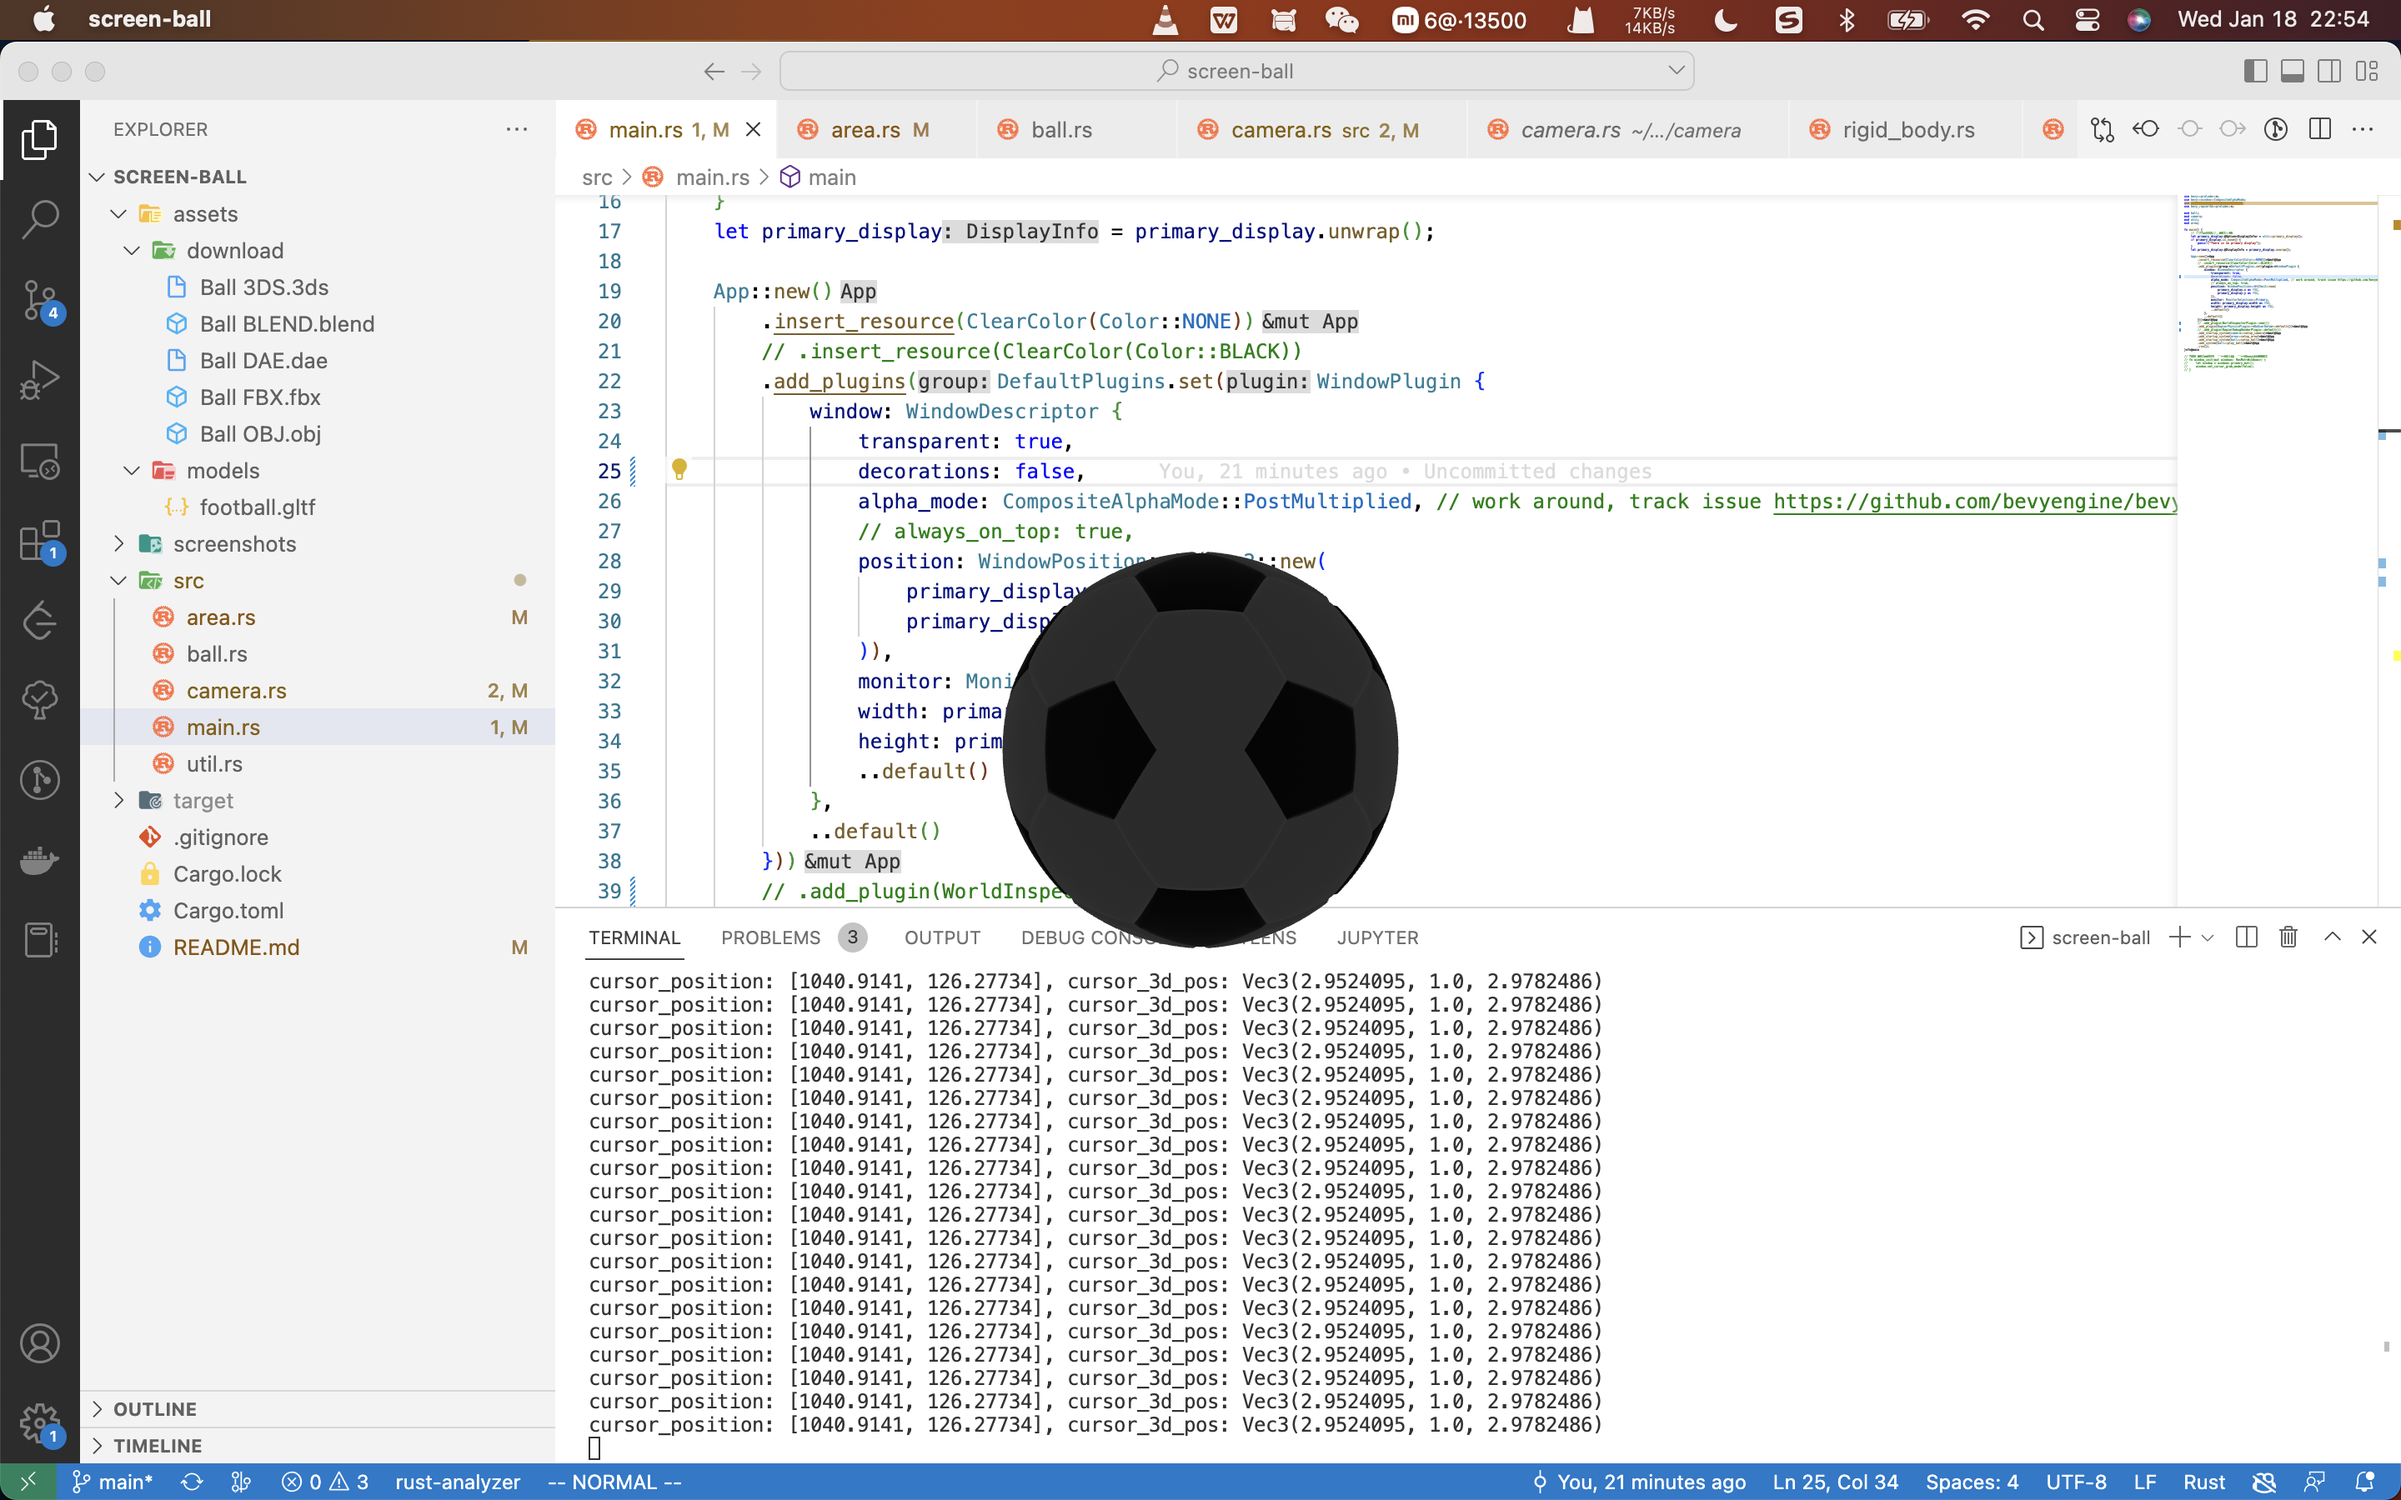
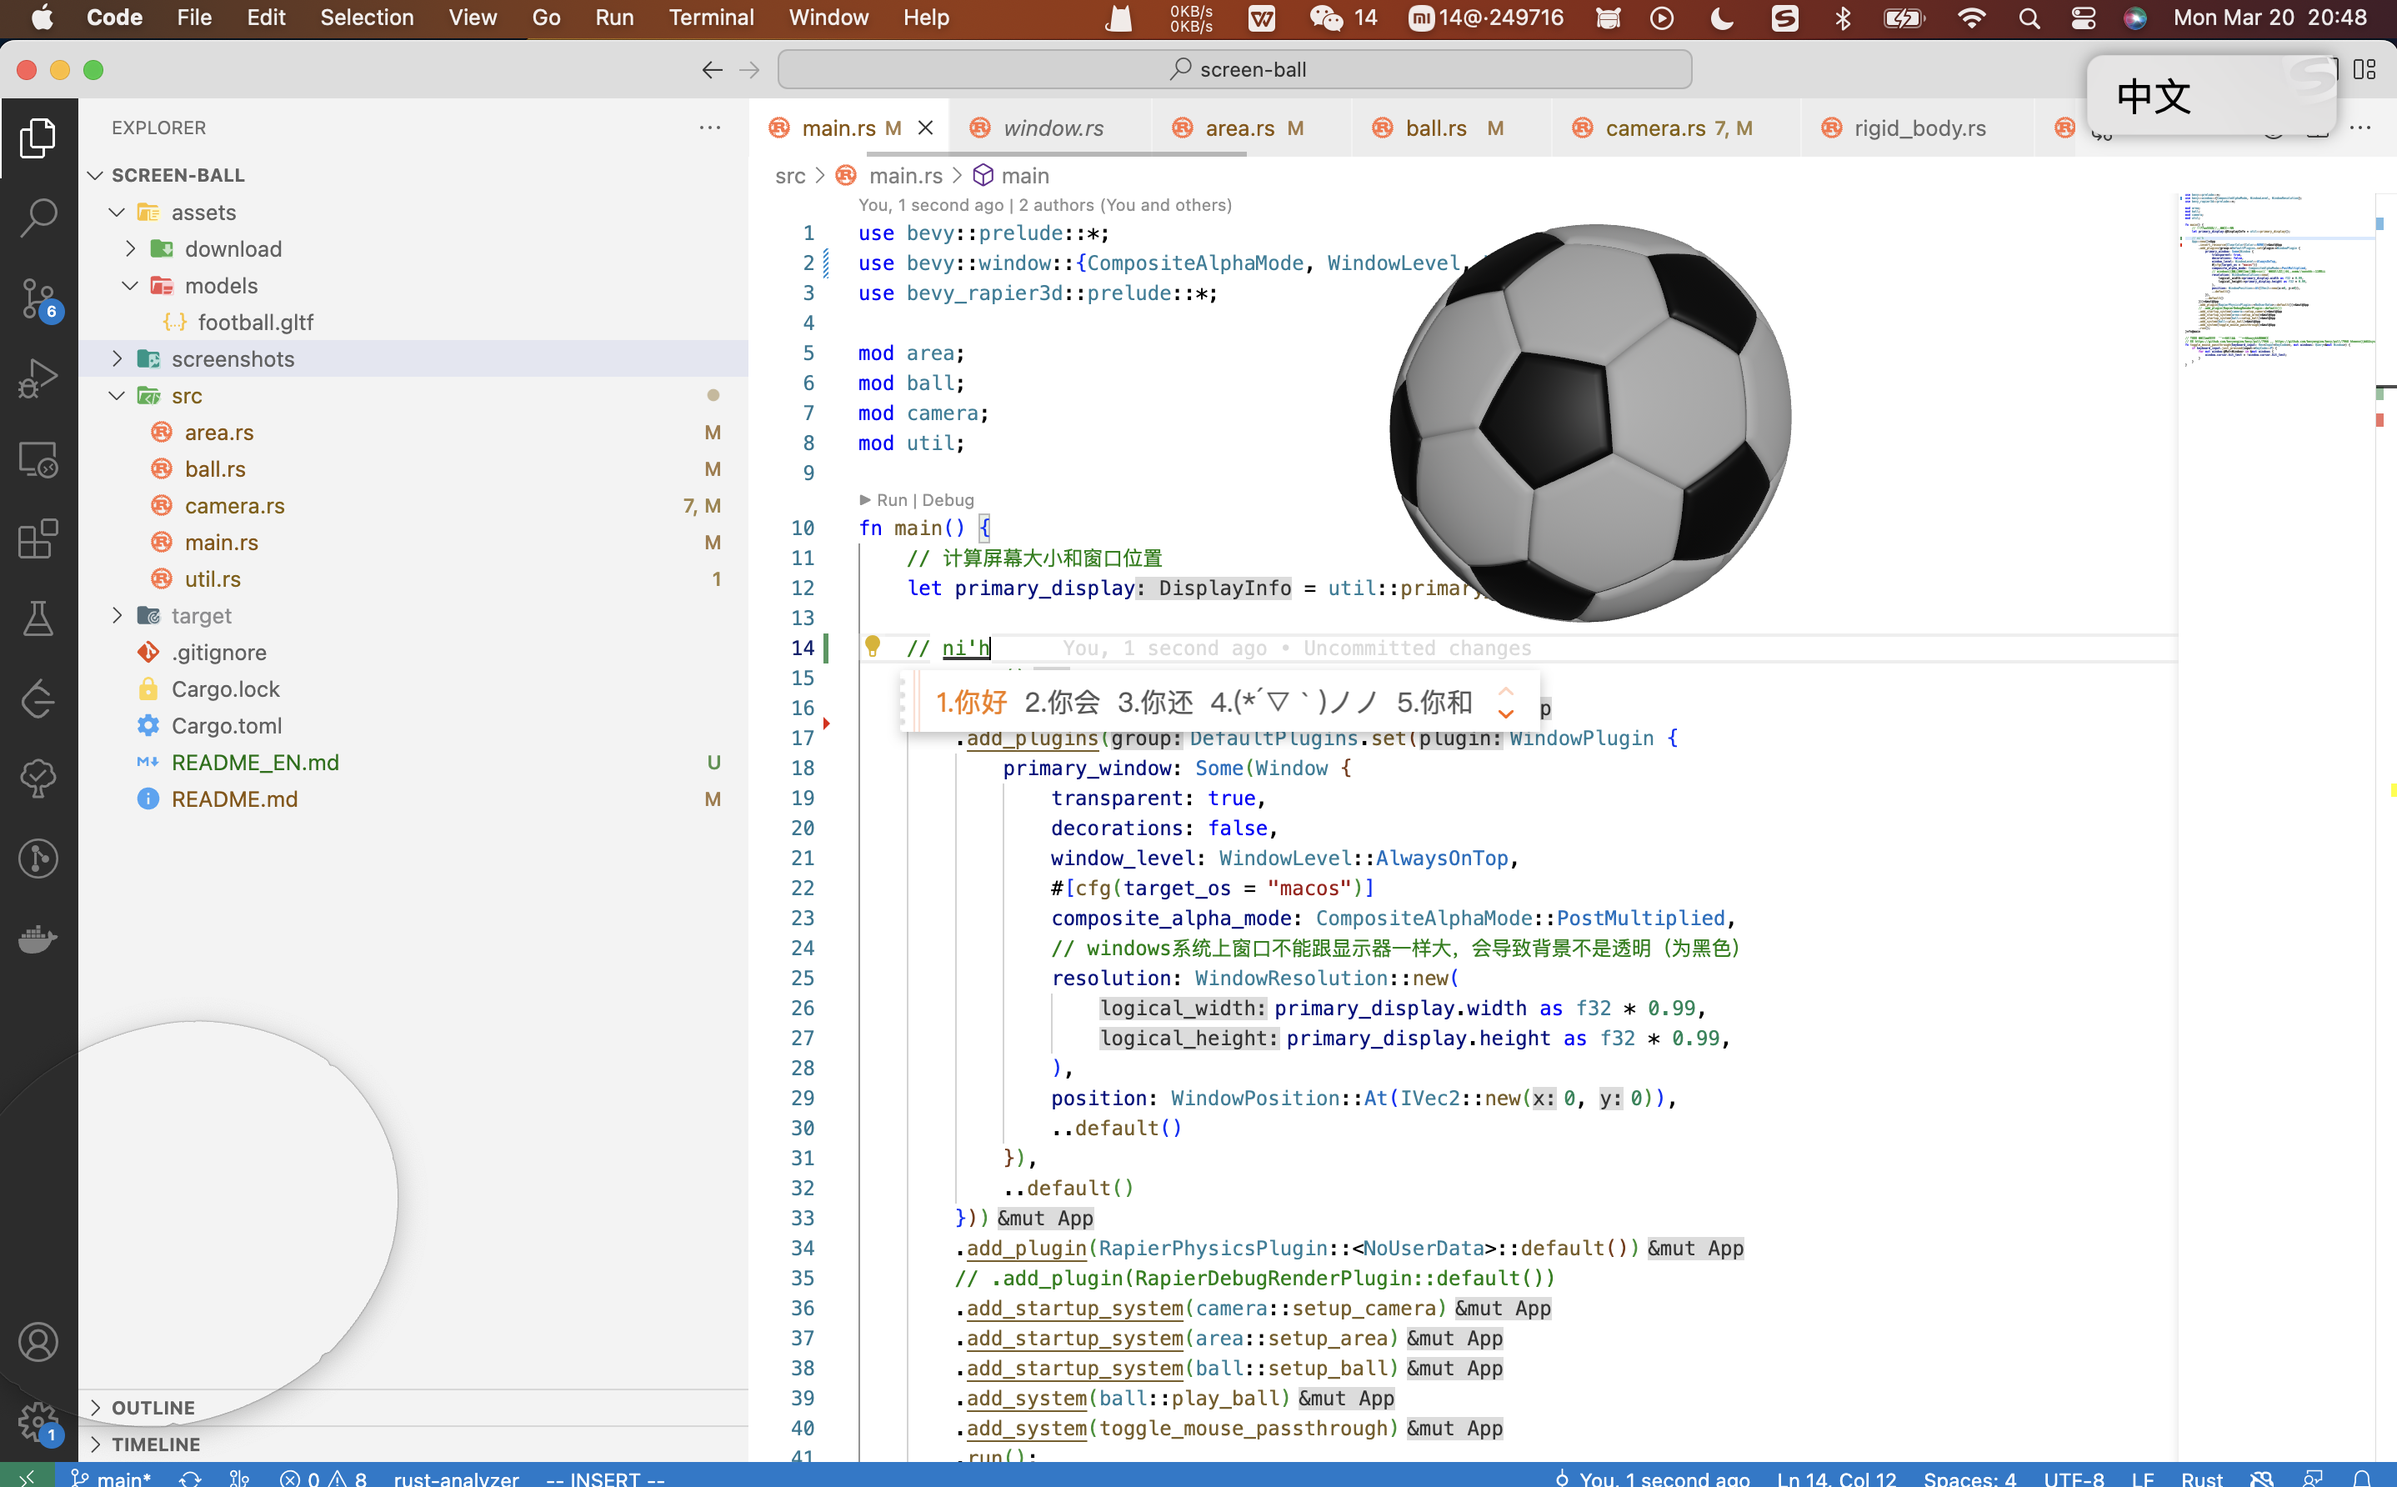
Comment out multi-windows code and update README

diff --git a/src/camera.rs b/src/camera.rs
@@ -29,60 +29,60 @@ pub fn setup_camera(mut commands: Commands) {
 
     let primary_display = util::primary_display();
 
-    // TODO 根据display信息创建新窗口
-    let non_primary_displays = util::non_primary_displays();
-    for display in non_primary_displays {
-        let window_entity = commands
-            .spawn(Window {
-                transparent: true,
-                decorations: false,
-                window_level: WindowLevel::AlwaysOnTop,
-                #[cfg(target_os = "macos")]
-                composite_alpha_mode: CompositeAlphaMode::PostMultiplied,
-                resolution: WindowResolution::new(
-                    display.width as f32 * 0.99,
-                    display.height as f32 * 0.99,
-                ),
-                ..default()
-            })
-            .id();
+    // TODO 多窗口支持：根据display信息创建新窗口
+    // let non_primary_displays = util::non_primary_displays();
+    // for display in non_primary_displays {
+    //     let window_entity = commands
+    //         .spawn(Window {
+    //             transparent: true,
+    //             decorations: false,
+    //             window_level: WindowLevel::AlwaysOnTop,
+    //             #[cfg(target_os = "macos")]
+    //             composite_alpha_mode: CompositeAlphaMode::PostMultiplied,
+    //             resolution: WindowResolution::new(
+    //                 display.width as f32 * 0.99,
+    //                 display.height as f32 * 0.99,
+    //             ),
+    //             ..default()
+    //         })
+    //         .id();
 
-        // 主相机相对于窗口原点坐标
-        let primary_camera_based_on_window_origin = Vec2::new(
-            primary_display.width as f32 / 2.0,
-            primary_display.height as f32 / 2.0,
-        );
-        dbg!(primary_camera_based_on_window_origin);
-        // 当前相机相对于窗口原点坐标
-        let current_camera_based_on_window_origin =
-            Vec2::new(display.width as f32 / 2.0, display.height as f32 / 2.0)
-                + Vec2::new(display.x as f32, display.y as f32);
-        dbg!(current_camera_based_on_window_origin);
-        // 当前相机相对于世界原点（即主相机位置）坐标
-        let current_camera_based_on_world_origin =
-            current_camera_based_on_window_origin - primary_camera_based_on_window_origin;
-        dbg!(current_camera_based_on_world_origin);
+    //     // 主相机相对于窗口原点坐标
+    //     let primary_camera_based_on_window_origin = Vec2::new(
+    //         primary_display.width as f32 / 2.0,
+    //         primary_display.height as f32 / 2.0,
+    //     );
+    //     dbg!(primary_camera_based_on_window_origin);
+    //     // 当前相机相对于窗口原点坐标
+    //     let current_camera_based_on_window_origin =
+    //         Vec2::new(display.width as f32 / 2.0, display.height as f32 / 2.0)
+    //             + Vec2::new(display.x as f32, display.y as f32);
+    //     dbg!(current_camera_based_on_window_origin);
+    //     // 当前相机相对于世界原点（即主相机位置）坐标
+    //     let current_camera_based_on_world_origin =
+    //         current_camera_based_on_window_origin - primary_camera_based_on_window_origin;
+    //     dbg!(current_camera_based_on_world_origin);
 
-        // TODO 窗口坐标单位不等同于世界坐标单位
-        commands.spawn(Camera3dBundle {
-            transform: Transform::from_xyz(
-                current_camera_based_on_world_origin.x,
-                camera::CAMERA_HEIGHT_SIZE,
-                current_camera_based_on_world_origin.y,
-            )
-            .looking_at(
-                Vec3::new(
-                    current_camera_based_on_world_origin.x,
-                    0.0,
-                    current_camera_based_on_world_origin.y,
-                ),
-                Vec3::NEG_Z,
-            ),
-            camera: Camera {
-                target: RenderTarget::Window(WindowRef::Entity(window_entity)),
-                ..default()
-            },
-            ..default()
-        });
-    }
+    //     // TODO 窗口坐标单位不等同于世界坐标单位
+    //     commands.spawn(Camera3dBundle {
+    //         transform: Transform::from_xyz(
+    //             current_camera_based_on_world_origin.x,
+    //             camera::CAMERA_HEIGHT_SIZE,
+    //             current_camera_based_on_world_origin.y,
+    //         )
+    //         .looking_at(
+    //             Vec3::new(
+    //                 current_camera_based_on_world_origin.x,
+    //                 0.0,
+    //                 current_camera_based_on_world_origin.y,
+    //             ),
+    //             Vec3::NEG_Z,
+    //         ),
+    //         camera: Camera {
+    //             target: RenderTarget::Window(WindowRef::Entity(window_entity)),
+    //             ..default()
+    //         },
+    //         ..default()
+    //     });
+    // }
 }

diff --git a/src/ball.rs b/src/ball.rs
@@ -49,13 +49,13 @@ pub fn play_ball(
             let z = (window.height() / 2.0 - cursor_position.y) * factor;
             // 鼠标映射到3d世界的坐标（类比脚踢球）
             let cursor_3d_pos = Vec3::new(x, BALL_RADIUS, z);
-            println!(
-                "cursor_position: {}, cursor_3d_pos: {:?}",
-                cursor_position, cursor_3d_pos,
-            );
+            // println!(
+            //     "cursor_position: {}, cursor_3d_pos: {:?}",
+            //     cursor_position, cursor_3d_pos,
+            // );
             for (mut external_impulse, ball_transform) in &mut q_ball {
                 if cursor_3d_pos.distance(ball_transform.translation) <= BALL_RADIUS {
-                    println!("cursor hitted ball");
+                    // println!("cursor hitted ball");
                     // motion.delta.x 鼠标左滑为负、右滑为正，motion.delta.y 鼠标上滑为负、下滑为正
                     for motion_ev in motion_evr.iter() {
                         // println!("Mouse moved: X: {} px, Y: {} px", motion_ev.delta.x, motion_ev.delta.y);

diff --git a/src/main.rs b/src/main.rs
@@ -1,5 +1,5 @@
 use bevy::prelude::*;
-use bevy::window::{CompositeAlphaMode, WindowLevel, WindowMode, WindowResolution};
+use bevy::window::{CompositeAlphaMode, WindowLevel, WindowResolution};
 use bevy_rapier3d::prelude::*;
 
 mod area;
@@ -13,7 +13,6 @@ fn main() {
 
     App::new()
         .insert_resource(ClearColor(Color::NONE))
-        // .insert_resource(ClearColor(Color::BLACK))
         .add_plugins(DefaultPlugins.set(WindowPlugin {
             primary_window: Some(Window {
                 transparent: true,

diff --git a/src/area.rs b/src/area.rs
@@ -7,7 +7,7 @@ const WALL_HEIGHT_HALF_SIZE: f32 = 10.0;
 const WALL_THICKNESS: f32 = 0.1;
 
 pub fn setup_area(mut commands: Commands) {
-    // TODO 如果两个区域的墙存在重叠，则此区域是连通的
+    // TODO 多窗口支持：如果两个区域的墙存在重叠，则此区域是连通的
     // 计算屏幕大小和窗口位置
     let primary_display = util::primary_display();
 

diff --git a/README.md b/README.md
@@ -3,19 +3,28 @@
 - [x] 鼠标控制踢球
 - [x] 3d模型载入
 - [x] 鼠标输入等事件落入下面窗口
-- [ ] 多显示器支持
-
-The project is blocking by windowing issues https://github.com/bevyengine/bevy/issues/7600 and https://github.com/bevyengine/bevy/issues/7975.
+- [ ] 多显示器支持（卡在[bevyengine/bevy#7600](https://github.com/bevyengine/bevy/issues/7600) 和 [bevyengine/bevy#7975](https://github.com/bevyengine/bevy/issues/7975)）
 
 ## 运行
 1. 本地运行
 ```
 cargo run
 ```
+2. WASM
+```
+rustup target install wasm32-unknown-unknown
+cargo install wasm-server-runner
+cargo run --target wasm32-unknown-unknown
+```
+```
+cargo install wasm-bindgen-cli
+cargo build --release --target wasm32-unknown-unknown
+wasm-bindgen --out-dir ./out/ --target web ./target/wasm32-unknown-unknown/release/screen-ball.wasm
+```
 
 ## 游戏展示
 视频演示：TODO
-截图TODO
+![screen-ball](screenshots/screen-ball.png)
 
 ## 参考资料
 1. 概念来自 Bevy Discord 社区 PaulH#7052 发布的视频 [beach_ball.webm](https://user-images.githubusercontent.com/17514693/210358262-19bf32ef-b4f2-42a9-833e-4b9349816532.webm)

diff --git a/README_EN.md b/README_EN.md
@@ -1,0 +1,33 @@
+# screen-ball 
+work and play ball
+- [x] Ball simulation
+- [x] Mouse control
+- [x] Load 3d model
+- [x] Pass through cursor events
+- [ ] Multiple monitors support（Blocking by[bevyengine/bevy#7600](https://github.com/bevyengine/bevy/issues/7600) 和 [bevyengine/bevy#7975](https://github.com/bevyengine/bevy/issues/7975)）
+
+## Get started
+1. Native
+```
+cargo run
+```
+2. WASM
+```
+rustup target install wasm32-unknown-unknown
+cargo install wasm-server-runner
+cargo run --target wasm32-unknown-unknown
+```
+```
+cargo install wasm-bindgen-cli
+cargo build --release --target wasm32-unknown-unknown
+wasm-bindgen --out-dir ./out/ --target web ./target/wasm32-unknown-unknown/release/screen-ball.wasm
+```
+
+## Screenshots
+Video：TODO
+![screen-ball](screenshots/screen-ball.png)
+
+## References
+1. The concept is from Bevy Discord PaulH#7052 [beach_ball.webm](https://user-images.githubusercontent.com/17514693/210358262-19bf32ef-b4f2-42a9-833e-4b9349816532.webm)
+2. [bevy_rapier docs](https://rapier.rs/docs/user_guides/bevy_plugin/getting_started_bevy)
+3. [Online 3D Viewer](https://www.creators3d.com/online-viewer)
